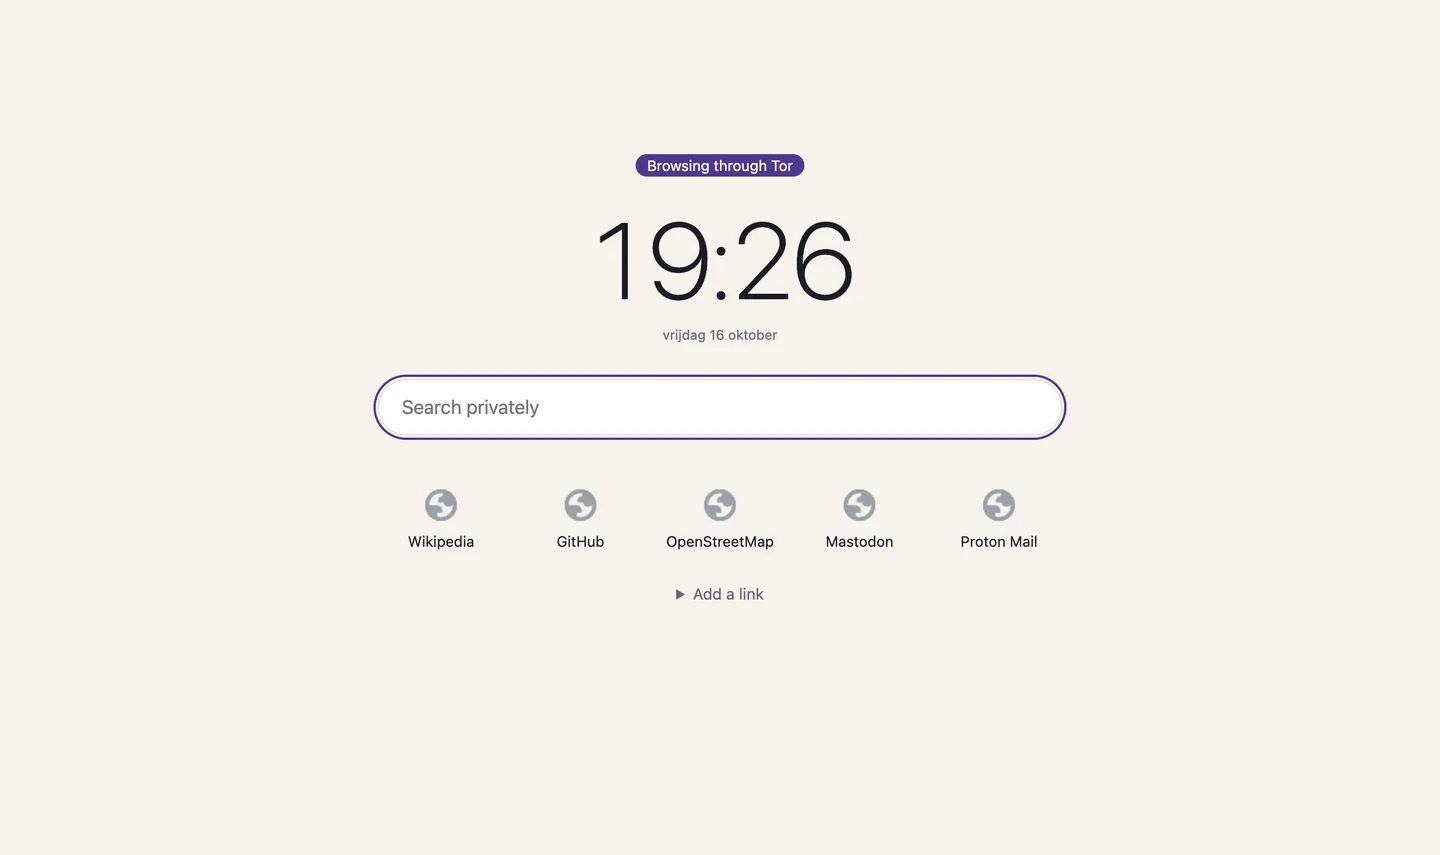
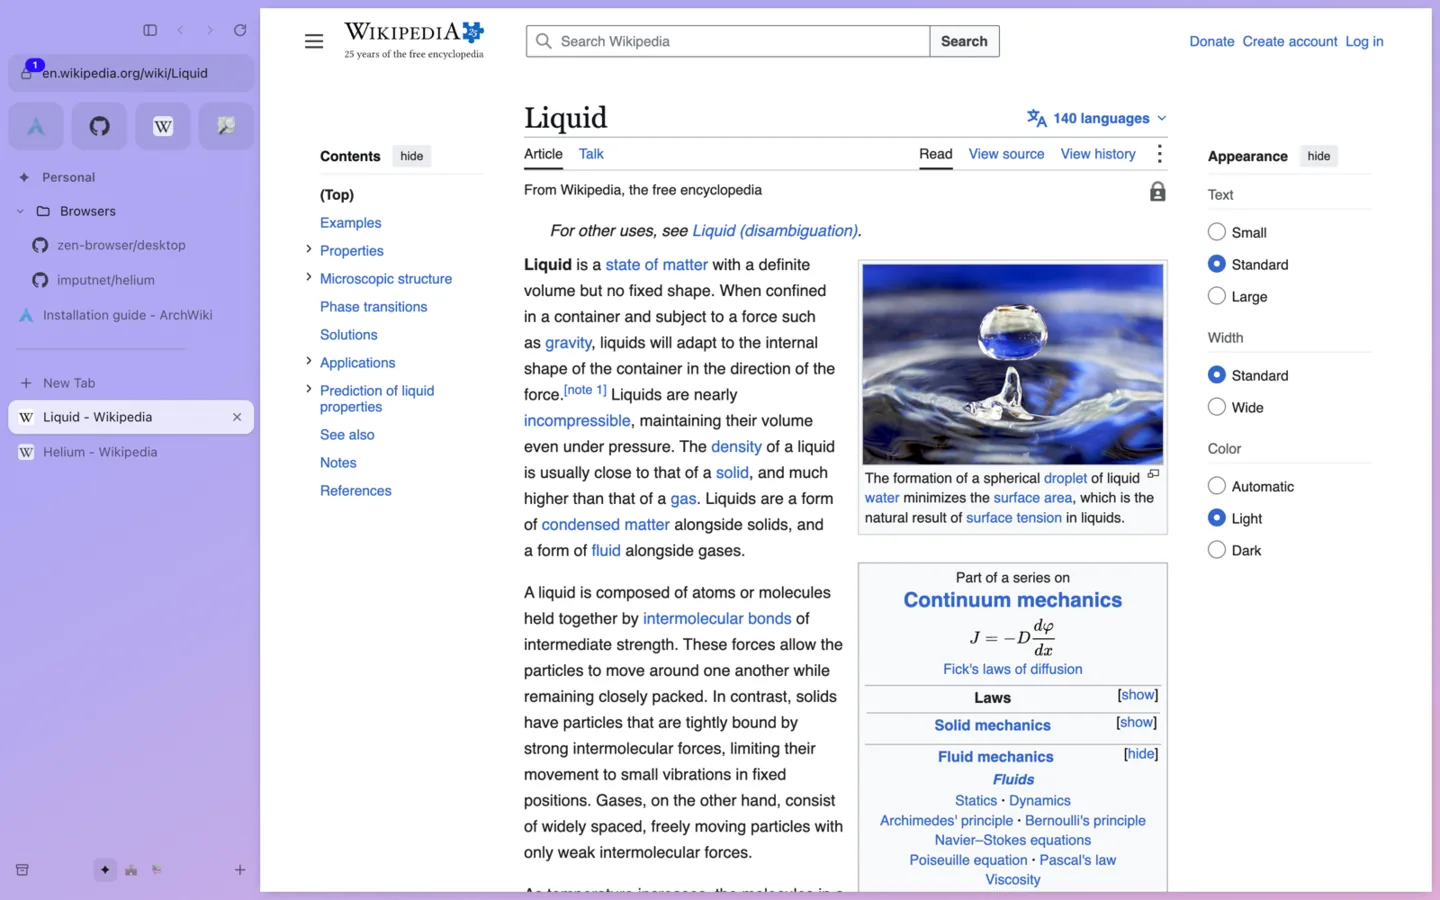
Swap the Archium and Hillium names

diff --git a/docs/index.html b/docs/index.html
@@ -65,8 +65,8 @@
       <ul>
         <li><a href="#edu-code-camp">edu-code-camp</a></li>
         <li><a href="#xiao">Xiao</a></li>
-        <li><a href="#hillium">Hillium</a></li>
         <li><a href="#archium">Archium</a></li>
+        <li><a href="#hillium">Hillium</a></li>
         <li><a href="#skyhold">Skyhold</a></li>
         <li><a href="#openfinder">OpenFinder</a></li>
         <li><a href="#convert">Convert to it!</a></li>
@@ -126,7 +126,7 @@
     <li><strong>One HTML file</strong>Double-click <code>index.html</code>. The Realistic and 8-Bit Vinyl Players, Spot’s Biscuit Snake and Spot-light work straight from disk, even offline.</li>
     <li><strong>A web app that needs a server</strong>Browsers won’t run modules, workers or WebAssembly from a <code>file://</code> address. These ship a <code>start.command</code>, or use any static server.</li>
     <li><strong>An app with a helper</strong>TabShell, LiquidFrame, web2app and Retrofind run a small server on your own computer, on <code>127.0.0.1</code> only. <code>start.command</code> starts it and opens the page.</li>
-    <li><strong>A program you install or build</strong>Terminal tools and desktop apps don’t run from a web page. Skyhold, needle, textarea-cli and USB LLMS need Go, Glyphium needs Rust and Zig, QuickTalk needs Rust and Node, Hillium needs Node, and LvW-harness needs Bun. Their pages list the steps, and “Project page” on their cards links to the same steps.</li>
+    <li><strong>A program you install or build</strong>Terminal tools and desktop apps don’t run from a web page. Skyhold, needle, textarea-cli and USB LLMS need Go, Glyphium needs Rust and Zig, QuickTalk needs Rust and Node, Archium needs Node, and LvW-harness needs Bun. Their pages list the steps, and “Project page” on their cards links to the same steps.</li>
   </ol>
   <p>To serve a folder yourself, run this inside it and open the address it prints:</p>
   <pre><code>python3 -m http.server 8000</code></pre>
@@ -143,7 +143,7 @@
   </ul>
 
   <h2 id="start-licences">Licences and forks</h2>
-  <p>Most of my own projects are MIT licensed. Videoina and Archium are GPL-3.0, OpenFinder and web2app GPL-3.0 or later, to fit what they build on or will use: mpv, Helium, FFmpeg and Pake. Nine projects are forks: I took an open-source project I liked and kept adding to it. Their pages say whose work they start from and list what my edition adds.</p>
+  <p>Most of my own projects are MIT licensed. Videoina and Hillium are GPL-3.0, OpenFinder and web2app GPL-3.0 or later, to fit what they build on or will use: mpv, Helium, FFmpeg and Pake. Nine projects are forks: I took an open-source project I liked and kept adding to it. Their pages say whose work they start from and list what my edition adds.</p>
 </article>
 
 <article class="doc" id="ultra-realistic-vinyl-player" data-look="vinyl" style="--accent:#d4893a">
@@ -1176,35 +1176,35 @@ powershell -ExecutionPolicy Bypass -File install.ps1 -Tor   # Windows</code></pr
   <p>Mozilla Public License 2.0, built on <a href="https://github.com/zen-browser/desktop">Zen Browser</a> and Firefox. Blocking is <a href="https://github.com/ghostery/adblocker">Ghostery’s engine</a>, and Xiao Search is <a href="https://github.com/searxng/searxng">SearXNG</a>. Not affiliated with or endorsed by Zen, Mozilla, Mullvad, the Tor Project, Ghostery, SearXNG or The Browser Company. Source: <a href="https://github.com/Gitguy268/xiao">Gitguy268/xiao</a>.</p>
 </article>
 
-<article class="doc" id="hillium" data-look="glass" style="--accent:#7c3aed;--glow-1:#c4b5fd;--glow-2:#fbcfe8">
+<article class="doc" id="archium" data-look="glass" style="--accent:#7c3aed;--glow-1:#c4b5fd;--glow-2:#fbcfe8">
   <header class="banner">
     <div class="pane">
-      <h1>Hillium</h1>
+      <h1>Archium</h1>
       <p class="tagline">An Arc and Zen style browser with Helium’s privacy defaults, for Linux (Arch) and macOS. It runs on Electron’s Chromium rather than a Helium build.</p>
       <ul class="facts"><li>Tools</li><li>MIT licence</li><li>Available online</li></ul>
     </div>
   </header>
-  <figure><img src="../images/hillium.webp" width="1440" height="900" loading="lazy" alt="A browser with a purple sidebar of tabs and spaces next to a Wikipedia article about liquids"></figure>
+  <figure><img src="../images/archium.webp" width="1440" height="900" loading="lazy" alt="A browser with a purple sidebar of tabs and spaces next to a Wikipedia article about liquids"></figure>
 
 
-  <h2 id="hillium-run">Run it</h2>
+  <h2 id="archium-run">Run it</h2>
   <p>With Node 24 or newer. On a Mac you can double-click <code>app/start.command</code>. The first run installs Electron and the ad blocker, about 350 MB.</p>
   <pre><code>cd app
 npm ci
 npm start</code></pre>
   <p>On Arch Linux, <code>npm run dist:linux</code> builds a package that <code>makepkg -si</code> in <code>packaging/arch</code> installs. Spaces import from Arc or Zen, and bookmarks from Chrome, Brave, Helium, Vivaldi or Chromium.</p>
 
-  <h2 id="hillium-use">Use it</h2>
+  <h2 id="archium-use">Use it</h2>
   <ul>
     <li><strong>Spaces</strong> each have a name, an emoji and a colour gradient, and can have their own cookies and logins. Favourites sit on top, with pinned tabs and folders under them.</li>
     <li><strong>Today</strong> tabs go to an archive after 12 hours, a day or a week.</li>
     <li><kbd>⌘T</kbd> opens a command bar that searches tabs in every space, history, the archive and commands.</li>
     <li>Also: Glance and Peek, split view of up to four pages, compact mode, and Boosts and Zap for changing a site.</li>
     <li>Four looks: Arc, Zen, Liquid Glass and Retro 98.</li>
-    <li>Turn on Settings › Agents, and the <code>hillium-cli</code> command and an MCP server let AI apps list, open and read your tabs. Private windows stay invisible to them.</li>
+    <li>Turn on Settings › Agents, and the <code>archium-cli</code> command and an MCP server let AI apps list, open and read your tabs. Private windows stay invisible to them.</li>
   </ul>
 
-  <h2 id="hillium-how">How it works</h2>
+  <h2 id="archium-how">How it works</h2>
   <p>A transparent window holds the interface, with one Chromium view per visible tab placed in the card. A single request filter runs per session.</p>
   <ul>
     <li>Blocking uses Ghostery’s engine with EasyList, EasyPrivacy, uBlock Origin’s lists and cookie notices.</li>
@@ -1213,7 +1213,7 @@ npm start</code></pre>
     <li>On a subset of privacytests.org’s tests it passes 67 of 76. Electron with its defaults passes 11 of 63.</li>
   </ul>
 
-  <h2 id="hillium-limits">Limits</h2>
+  <h2 id="archium-limits">Limits</h2>
   <ul>
     <li>It is Electron, not Helium, so Chromium updates arrive with Electron releases.</li>
     <li>There is no fingerprint noise. Use Tor Browser when you need to be anonymous.</li>
@@ -1222,31 +1222,31 @@ npm start</code></pre>
     <li>Arc wasn’t decompiled. Its features are rebuilt from how Arc behaves.</li>
   </ul>
 
-  <h2 id="hillium-credits">Credits</h2>
-  <p>MIT licence. Files from <a href="https://github.com/zen-browser/desktop">Zen</a> stay MPL-2.0, and the glass is by Archis Vaze (MIT). The repository’s NOTICE lists everything it uses. Not affiliated with The Browser Company, Zen, imputnet, Brave or Ghostery. Source: <a href="https://github.com/Gitguy268/hillium">Gitguy268/hillium</a>.</p>
+  <h2 id="archium-credits">Credits</h2>
+  <p>MIT licence. Files from <a href="https://github.com/zen-browser/desktop">Zen</a> stay MPL-2.0, and the glass is by Archis Vaze (MIT). The repository’s NOTICE lists everything it uses. Not affiliated with The Browser Company, Zen, imputnet, Brave or Ghostery. Source: <a href="https://github.com/Gitguy268/archium">Gitguy268/archium</a>.</p>
 </article>
 
-<article class="doc" id="archium" data-look="glass" style="--accent:#6b3fa0;--glow-1:#c4b5fd;--glow-2:#5eead4">
+<article class="doc" id="hillium" data-look="glass" style="--accent:#6b3fa0;--glow-1:#c4b5fd;--glow-2:#5eead4">
   <header class="banner">
     <div class="pane">
-      <h1>Archium</h1>
-      <p class="tagline">A privacy layer for the Helium browser: an offline new tab, search that runs on your own Mac, a Tor switch with a kill switch, and a URL cleaner. Plus Archium Browser, a runnable browser with the same protection, three looks, Glance and a local assistant.</p>
+      <h1>Hillium</h1>
+      <p class="tagline">A privacy layer for the Helium browser: an offline new tab, search that runs on your own Mac, a Tor switch with a kill switch, and a URL cleaner. Plus Hillium Browser, a runnable browser with the same protection, three looks, Glance and a local assistant.</p>
       <ul class="facts"><li>Tools</li><li>GPL-3.0 licence</li><li>macOS</li><li>Available online</li></ul>
     </div>
   </header>
-  <figure><img src="../images/archium.webp" width="1440" height="855" loading="lazy" alt="A browser new tab page with a clock, a search box and quick links"></figure>
-  <p class="note">Archium is a companion kit for now: an extension and scripts on top of a stock <a href="https://helium.computer">Helium</a> release, not a browser you download. Its own builds are planned.</p>
+  <figure><img src="../images/hillium.webp" width="1440" height="855" loading="lazy" alt="A browser new tab page with a clock, a search box and quick links"></figure>
+  <p class="note">Hillium is a companion kit for now: an extension and scripts on top of a stock <a href="https://helium.computer">Helium</a> release, not a browser you download. Its own builds are planned.</p>
 
-  <h2 id="archium-run">Install</h2>
+  <h2 id="hillium-run">Install</h2>
   <p>You need macOS, Helium and Homebrew.</p>
   <ol>
     <li>Start local search: double-click <code>searxng/install.command</code>. SearXNG starts now and at every login, on <code>127.0.0.1:8888</code>, without Docker.</li>
     <li>In Helium open <code>chrome://extensions</code>, turn on Developer mode, click Load unpacked and choose the <code>extension</code> folder.</li>
     <li>Add a search engine with the URL <code>http://127.0.0.1:8888/search?q=%s</code> and make it the default.</li>
-    <li>For Tor, run <code>brew install tor &amp;&amp; brew services start tor</code>, then pick Tor in the Archium popup.</li>
+    <li>For Tor, run <code>brew install tor &amp;&amp; brew services start tor</code>, then pick Tor in the Hillium popup.</li>
   </ol>
 
-  <h2 id="archium-use">Features</h2>
+  <h2 id="hillium-use">Features</h2>
   <div class="table-wrap"><table>
     <tr><th>Feature</th><th>What it does</th></tr>
     <tr><td>Offline new tab</td><td>Clock, search box and quick links, with no network requests</td></tr>
@@ -1258,7 +1258,7 @@ npm start</code></pre>
     <tr><td>Own Helium services</td><td>Optional: <code>services/run-local.sh</code> runs Helium’s services server on your Mac, so filter lists, !bangs and extensions never come through imputnet’s servers. Needs Docker and mkcert.</td></tr>
   </table></div>
 
-  <h2 id="archium-how">How it works</h2>
+  <h2 id="hillium-how">How it works</h2>
   <ol class="flow">
     <li><strong>Popup</strong>Your choices go into extension storage</li>
     <li><strong>Background worker</strong>Applies the proxy, WebRTC policy and redirect rules</li>
@@ -1266,14 +1266,14 @@ npm start</code></pre>
   </ol>
   <p>Chromium never sends loopback traffic through a proxy, so in Tor mode a redirect rule sends local searches to the public instance, through Tor. The extension asks for access to all sites only because redirect rules need it; it has no content scripts and never reads pages.</p>
 
-  <h2 id="archium-limits">Limits</h2>
+  <h2 id="hillium-limits">Limits</h2>
   <ul>
     <li>Tor through a Chromium browser is not Tor Browser. It hides your IP from sites, but your browser fingerprint still identifies you.</li>
     <li>Local SearXNG queries Google, Bing and others from your IP outside Tor mode.</li>
     <li>Nothing is compiled into the browser yet, so the extension can be switched off.</li>
   </ul>
 
-  <h2 id="archium-credits">Credits</h2>
+  <h2 id="hillium-credits">Credits</h2>
   <p>Builds on <a href="https://github.com/imputnet/helium">Helium</a> by imputnet, which builds on ungoogled-chromium. Search is SearXNG. Not affiliated with any of them, Google or the Tor Project.</p>
 </article>
 

diff --git a/index.html b/index.html
@@ -274,21 +274,21 @@
           <p class="note project-credit">MPL-2.0 licence. <a href="https://github.com/Gitguy268/xiao">Source on GitHub</a>.</p>
         <div class="project-actions"><a class="action docs-link" href="docs/index.html#xiao">Docs</a><a class="action demo-link" href="https://gitguy268.github.io/xiao/" target="_blank" rel="noopener noreferrer">Project page <span aria-hidden="true">↗</span></a><a class="action source-link" href="https://github.com/Gitguy268/xiao" target="_blank" rel="noopener noreferrer">Source <span aria-hidden="true">↗</span></a></div></div>
       </article>
-      <article class="project" id="project-hillium" data-project="hillium" data-category="tools" data-status="public" data-demo="https://gitguy268.github.io/hillium/" data-source="https://github.com/Gitguy268/hillium">
-        <img decoding="async" loading="lazy" src="images/hillium.webp" width="1440" height="900" alt="A browser with a purple sidebar of tabs and spaces next to a Wikipedia article about liquids">
-        <div>
-          <div class="project-meta"><span>Tools</span><span class="status live">Available online</span></div><h3>Hillium</h3>
-          <p>An Arc and Zen style browser with Helium’s privacy defaults, for Arch Linux and macOS. Tabs in a sidebar on coloured spaces, a command bar, split view, four looks, and a CLI and MCP server for AI apps.</p>
-          <p class="note project-credit">MIT licence. <a href="https://github.com/Gitguy268/hillium">Source on GitHub</a>.</p>
-        <div class="project-actions"><a class="action docs-link" href="docs/index.html#hillium">Docs</a><a class="action demo-link" href="https://gitguy268.github.io/hillium/" target="_blank" rel="noopener noreferrer">Project page <span aria-hidden="true">↗</span></a><a class="action source-link" href="https://github.com/Gitguy268/hillium" target="_blank" rel="noopener noreferrer">Source <span aria-hidden="true">↗</span></a></div></div>
-      </article>
       <article class="project" id="project-archium" data-project="archium" data-category="tools" data-status="public" data-demo="https://gitguy268.github.io/archium/" data-source="https://github.com/Gitguy268/archium">
-        <img decoding="async" src="images/archium.webp" width="1440" height="855" loading="lazy" alt="A browser new tab page with a clock, a search box and quick links">
+        <img decoding="async" loading="lazy" src="images/archium.webp" width="1440" height="900" alt="A browser with a purple sidebar of tabs and spaces next to a Wikipedia article about liquids">
         <div>
           <div class="project-meta"><span>Tools</span><span class="status live">Available online</span></div><h3>Archium</h3>
-          <p>A privacy layer for the Helium browser: an offline new tab, search that runs on your own Mac, a Tor switch with a kill switch, and a URL cleaner. Plus Archium Browser, a runnable browser with the same protection, three looks and a local assistant.</p>
-          <p class="note project-credit">GPL-3.0 licence. <a href="https://github.com/Gitguy268/archium">Source on GitHub</a>.</p>
-        <div class="project-actions"><a class="action docs-link" href="docs/index.html#archium">Docs</a><a class="action demo-link" href="https://gitguy268.github.io/archium/" target="_blank" rel="noopener noreferrer">Try it <span aria-hidden="true">↗</span></a><a class="action source-link" href="https://github.com/Gitguy268/archium" target="_blank" rel="noopener noreferrer">Source <span aria-hidden="true">↗</span></a></div></div>
+          <p>An Arc and Zen style browser with Helium’s privacy defaults, for Arch Linux and macOS. Tabs in a sidebar on coloured spaces, a command bar, split view, four looks, and a CLI and MCP server for AI apps.</p>
+          <p class="note project-credit">MIT licence. <a href="https://github.com/Gitguy268/archium">Source on GitHub</a>.</p>
+        <div class="project-actions"><a class="action docs-link" href="docs/index.html#archium">Docs</a><a class="action demo-link" href="https://gitguy268.github.io/archium/" target="_blank" rel="noopener noreferrer">Project page <span aria-hidden="true">↗</span></a><a class="action source-link" href="https://github.com/Gitguy268/archium" target="_blank" rel="noopener noreferrer">Source <span aria-hidden="true">↗</span></a></div></div>
+      </article>
+      <article class="project" id="project-hillium" data-project="hillium" data-category="tools" data-status="public" data-demo="https://gitguy268.github.io/hillium/" data-source="https://github.com/Gitguy268/hillium">
+        <img decoding="async" src="images/hillium.webp" width="1440" height="855" loading="lazy" alt="A browser new tab page with a clock, a search box and quick links">
+        <div>
+          <div class="project-meta"><span>Tools</span><span class="status live">Available online</span></div><h3>Hillium</h3>
+          <p>A privacy layer for the Helium browser: an offline new tab, search that runs on your own Mac, a Tor switch with a kill switch, and a URL cleaner. Plus Hillium Browser, a runnable browser with the same protection, three looks and a local assistant.</p>
+          <p class="note project-credit">GPL-3.0 licence. <a href="https://github.com/Gitguy268/hillium">Source on GitHub</a>.</p>
+        <div class="project-actions"><a class="action docs-link" href="docs/index.html#hillium">Docs</a><a class="action demo-link" href="https://gitguy268.github.io/hillium/" target="_blank" rel="noopener noreferrer">Try it <span aria-hidden="true">↗</span></a><a class="action source-link" href="https://github.com/Gitguy268/hillium" target="_blank" rel="noopener noreferrer">Source <span aria-hidden="true">↗</span></a></div></div>
       </article>
       <article class="project" id="project-skyhold" data-project="skyhold" data-category="tools" data-status="public" data-demo="https://gitguy268.github.io/skyhold/" data-source="https://github.com/Gitguy268/skyhold">
         <img decoding="async" loading="lazy" src="images/skyhold.webp" width="1440" height="900" alt="The Skyhold web interface with a cloud remote configured, a list of photo files ticked for staging and an Add to vault button">
